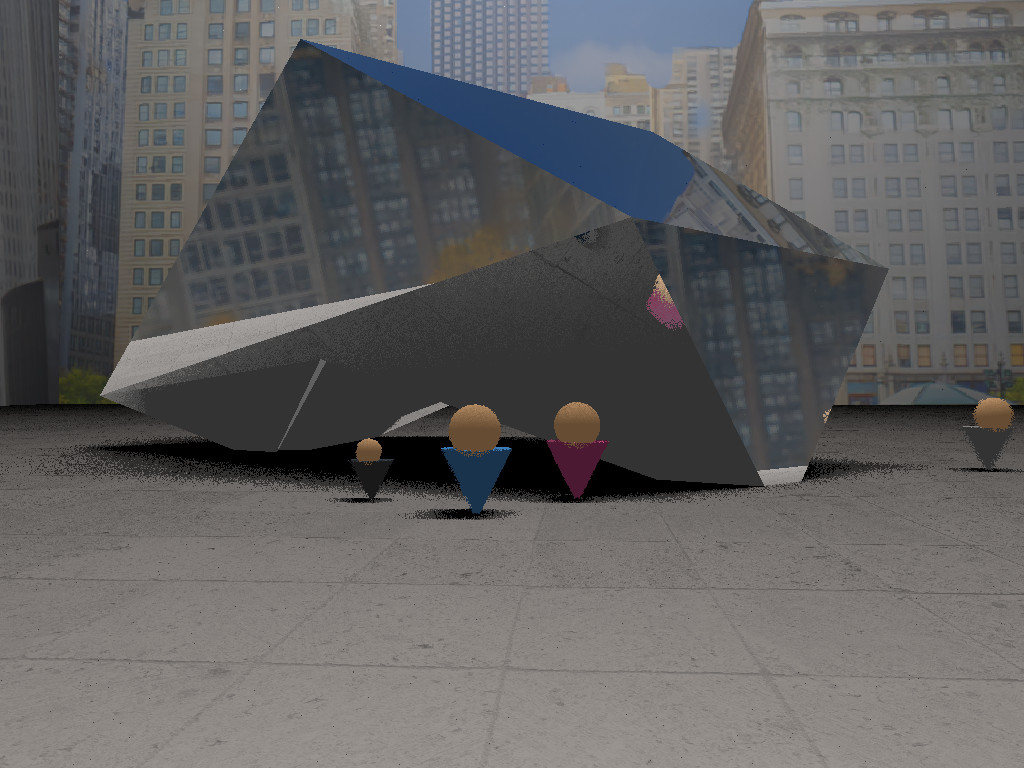
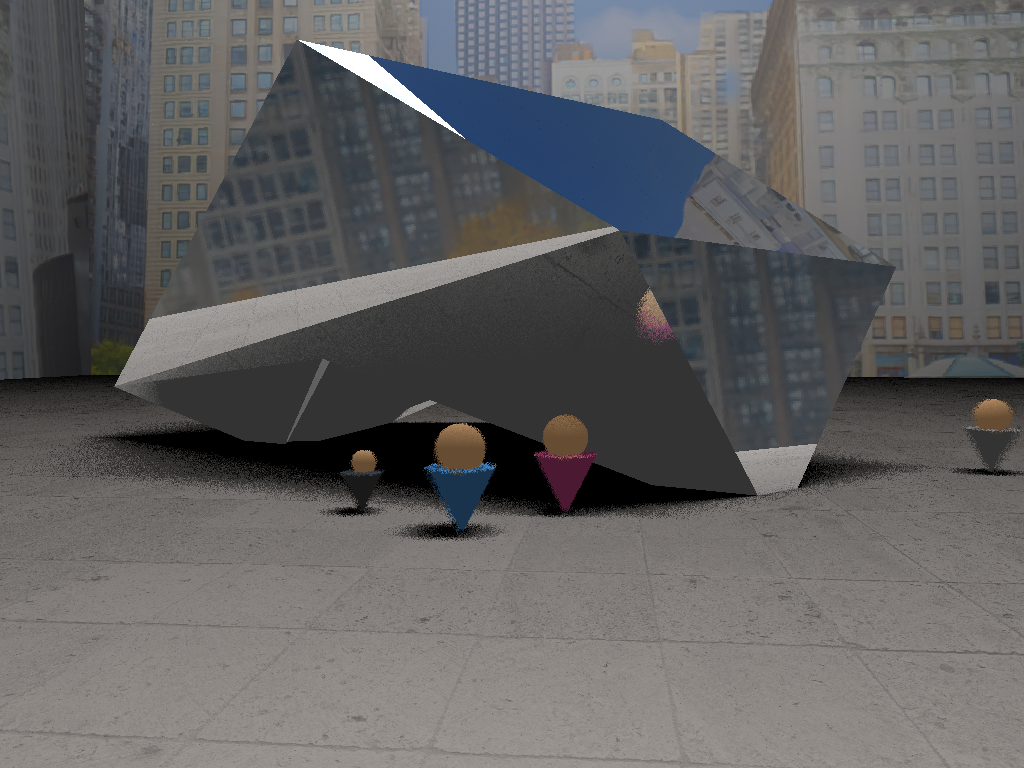
fixed head positions again

diff --git a/src/shapes/cone.h b/src/shapes/cone.h
@@ -18,7 +18,7 @@ private:
     glm::vec4 d;
 
     // for defining start and end of cone movement
-    glm::vec4 centerStart = glm::vec4(0.f, 0.f, 0.f, 1.f);
+    glm::vec4 centerStart = glm::vec4(0.2f, 0.f, 0.f, 1.f);
     glm::vec4 centerEnd = glm::vec4 (0.f, 0.f, 0.5f, 1.f);
 };
 

diff --git a/src/raytracer/raytracer.h b/src/raytracer/raytracer.h
@@ -55,7 +55,7 @@ private:
     glm::mat4 myRotate(float angleDegrees, glm::vec3 axis);
     RGBA toRGBA(const glm::vec4 &illumination);
 
-    int maxSamples = 1;
+    int maxSamples = 25;
     float sampleThreshold = 1.f;
 };
 
